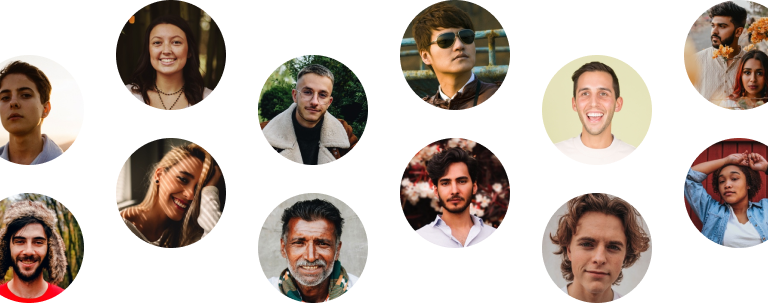
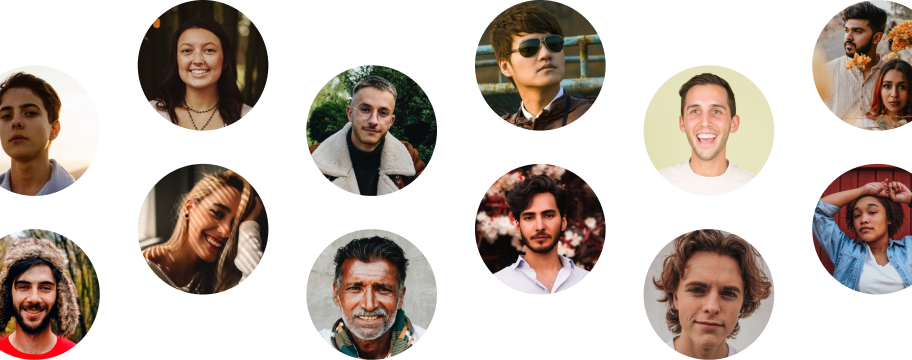
initial commit

diff --git a/main.css b/main.css
@@ -97,7 +97,15 @@ a:any-link {
   display: flex;
   align-items: center;
   justify-content: center;
-  max-width: 100%s;
+  max-width: 100%;
+}
+
+.hero-combined__image-tablet {
+  display: none;
+}
+
+.hero-combined__image-mobile.responsive-image {
+  display: block;
 }
 
 .header__content__nav {
@@ -308,6 +316,10 @@ a:any-link {
     display: none;
   }
 
+  .hero-combined__image-tablet {
+    display: block;
+  }
+
   .hero-combined__image-tablet img {
     max-width: 100%;
     height: auto;
@@ -371,5 +383,140 @@ a:any-link {
 
   .text-content__text-footer {
     width: 504px;
+  }
+}
+
+/* Desktop/TV */
+@media screen and (min-width: 1024px) {
+  /* || HEADER */
+  .header {
+    margin: 80px 0 120px 0;
+  }
+
+  .hero-combined__image-mobile {
+    position: absolute;
+    left: -100000000px;
+  }
+
+  .hero-combined__image-tablet {
+    position: absolute;
+    left: -10000000px;
+  }
+
+  .hero-combined__image-left {
+    display: block;
+    position: absolute;
+    left: -26px;
+    top: 171px;
+    max-width: 100%;
+    height: auto;
+  }
+
+  .hero-combined__image-right {
+    display: block;
+    position: absolute;
+    right: -26px;
+    top: 229px;
+    max-width: 100%;
+    height: auto;
+  }
+
+  .header__content__hero-combined {
+    gap: 130px;
+  }
+
+  .hero-combined__text-content {
+    gap: 32px;
+  }
+
+  .text-content__title {
+    font: var(--DSK-TEXT-PRESET1);
+    width: 450px;
+  }
+
+  .text-content__text {
+    font: var(--DSK-TEXT-PRESET4);
+    width: 450px;
+  }
+
+  .hero-combined__buttons {
+    flex-flow: row;
+    gap: 17px;
+  }
+
+  .download-header:hover,
+  .download-header:focus-visible {
+    background-color: #71c0d4;
+  }
+
+  .info:hover,
+  .info:focus-visible {
+    background-color: #b18bdd;
+  }
+
+  /* || MAIN */
+  .main {
+    margin: 0 160px 182px 160px;
+  }
+
+  .main__content__image-container {
+    gap: 32px;
+  }
+
+  .main__content__image-container img {
+    max-width: 256px;
+  }
+
+  .text-content__sub-title-main {
+    font: var(--DSK-TEXT-PRESET3);
+  }
+
+  .text-content__title-main {
+    font: var(--DSK-TEXT-PRESET2);
+    width: 445px;
+  }
+
+  .text-content__text-main {
+    font: var(--DSK-TEXT-PRESET4);
+    width: 544px;
+  }
+
+  /* || FOOTER */
+  .footer {
+    height: 312px;
+    background-image: url("./images/desktop/image-footer.jpg");
+    background-size: 100% 312px;
+  }
+
+  .footer__content {
+    padding: 112px 80px;
+  }
+
+  .footer__content__number {
+    bottom: 91.02%;
+  }
+
+  .footer__content__text-content {
+    flex-flow: row;
+    gap: 32px;
+  }
+
+  .text-content__title-footer {
+    font: var(--DSK-TEXT-PRESET2);
+    width: 330px;
+    text-align: left;
+    margin-right: 148px;
+  }
+
+  .text-content__text-footer {
+    font: var(--DSK-TEXT-PRESET4);
+    width: 355px;
+    text-align: left;
+    margin-right: 94px;
+  }
+
+  .download-footer:hover,
+  .download-footer:focus-visible {
+    background-color: #b18bdd;
   }
 }

diff --git a/index.html b/index.html
@@ -30,7 +30,7 @@
         </nav>
 
         <section class="header__content__hero-combined">
-          <figure class="hero-combined__image-mobile">
+          <figure class="hero-combined__image-mobile .responsive-image">
             <img
               src="./images/mobile/hero-image.png"
               alt="mobile-hero"
@@ -44,8 +44,8 @@
             <img
               src="./images/tablet/hero-image.png"
               alt="mobile-hero"
-              width="768"
-              height="303"
+              width="912"
+              height="360"
             />
             <figcaption class="offscreen">mobile-hero</figcaption>
           </figure>
